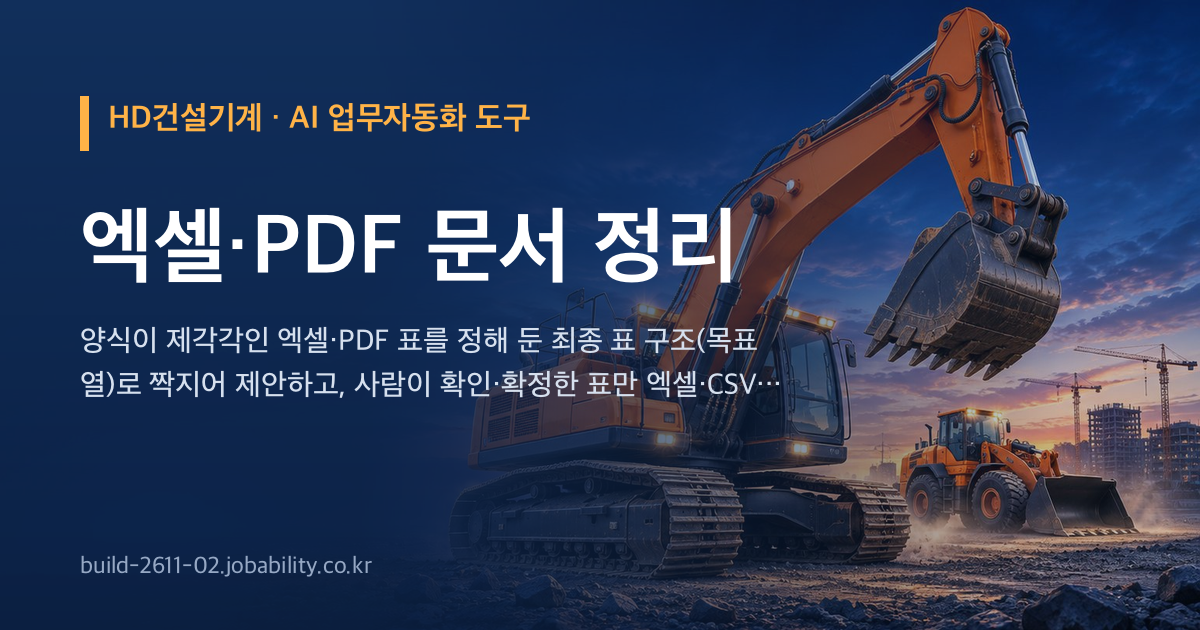
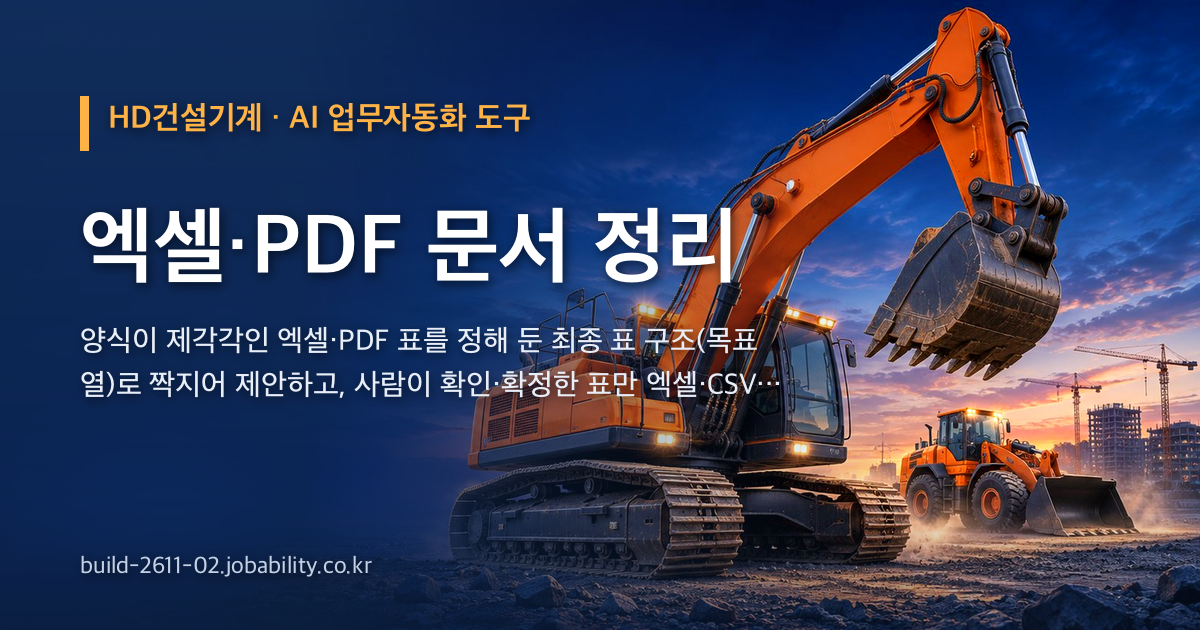
공유 그림 다시(사진 또렷하게) · 판 2026-11-13.12

diff --git a/index.html b/index.html
@@ -12,8 +12,8 @@
 <meta property="og:title" content="HD건설기계 · 엑셀·PDF 문서 정리">
 <meta property="og:description" content="양식이 제각각인 엑셀·PDF 표를 정해 둔 최종 표 구조(목표 열)로 짝지어 제안하고, 사람이 확인·확정한 표만 엑셀·CSV로 정리해 주는 도구입니다. v1.1부터는 폴더를 통째로 올리면 문서 종류별로 나누고 조건에 맞는 데이터만 뽑아 엑셀로 저장하며, 같은 규칙으로 Codex가 로컬">
 <meta property="og:url" content="https://build-2611-02.jobability.co.kr/">
-<meta property="og:image" content="https://build-2611-02.jobability.co.kr/og-image.png">
-<meta property="og:image:secure_url" content="https://build-2611-02.jobability.co.kr/og-image.png">
+<meta property="og:image" content="https://build-2611-02.jobability.co.kr/og-image.png?v=2">
+<meta property="og:image:secure_url" content="https://build-2611-02.jobability.co.kr/og-image.png?v=2">
 <meta property="og:image:type" content="image/png">
 <meta property="og:image:width" content="1200">
 <meta property="og:image:height" content="630">
@@ -22,7 +22,7 @@
 <meta name="twitter:card" content="summary_large_image">
 <meta name="twitter:title" content="HD건설기계 · 엑셀·PDF 문서 정리">
 <meta name="twitter:description" content="양식이 제각각인 엑셀·PDF 표를 정해 둔 최종 표 구조(목표 열)로 짝지어 제안하고, 사람이 확인·확정한 표만 엑셀·CSV로 정리해 주는 도구입니다. v1.1부터는 폴더를 통째로 올리면 문서 종류별로 나누고 조건에 맞는 데이터만 뽑아 엑셀로 저장하며, 같은 규칙으로 Codex가 로컬">
-<meta name="twitter:image" content="https://build-2611-02.jobability.co.kr/og-image.png">
+<meta name="twitter:image" content="https://build-2611-02.jobability.co.kr/og-image.png?v=2">
 <!-- /seo-kit -->
 <meta name="description" content="양식이 제각각인 엑셀·PDF 표를 정해 둔 최종 표 구조(목표 열)로 짝지어 제안하고, 사람이 확인·확정한 표만 엑셀·CSV로 정리해 주는 도구입니다. v1.1부터는 폴더를 통째로 올리면 문서 종류별로 나누고 조건에 맞는 데이터만 뽑아 엑셀로 저장하며, 같은 규칙으로 Codex가 로컬 스크립트를 돌릴 수 있습니다.">
 <link rel="icon" href="favicon.svg" type="image/svg+xml">
@@ -30,9 +30,9 @@
 <link rel="stylesheet" href="css/app.css">
 <!-- auth-kit: 로그인 전에는 도구 화면을 감춘다(js/auth.js 가 판정 뒤 푼다) -->
 <script>document.documentElement.classList.add('auth-lock')</script>
-<link rel="stylesheet" href="css/auth.css?v=2026-11-13.11">
-<link rel="stylesheet" href="css/board.css?v=2026-11-13.11">
-<link rel="stylesheet" href="css/kit-build.css?v=2026-11-13.11">
+<link rel="stylesheet" href="css/auth.css?v=2026-11-13.12">
+<link rel="stylesheet" href="css/board.css?v=2026-11-13.12">
+<link rel="stylesheet" href="css/kit-build.css?v=2026-11-13.12">
 <!-- /auth-kit -->
 </head>
 <body>
@@ -193,11 +193,11 @@
 <script src="js/engine.js"></script>
 <script src="js/app.js"></script>
 <!-- auth-kit: 로그인 · 사용 신청 · 승인 · 게시판(키트 정본 data10-00/kit/auth, 적용 build-2611-00/tools/kit) -->
-<script src="vendor/supabase.js?v=2026-11-13.11"></script>
-<script src="js/auth-config.js?v=2026-11-13.11"></script>
-<script src="js/kit-build.js?v=2026-11-13.11"></script>
-<script src="js/board.js?v=2026-11-13.11"></script>
-<script src="js/auth.js?v=2026-11-13.11"></script>
+<script src="vendor/supabase.js?v=2026-11-13.12"></script>
+<script src="js/auth-config.js?v=2026-11-13.12"></script>
+<script src="js/kit-build.js?v=2026-11-13.12"></script>
+<script src="js/board.js?v=2026-11-13.12"></script>
+<script src="js/auth.js?v=2026-11-13.12"></script>
 <!-- /auth-kit -->
 </body>
 </html>

diff --git a/folder.html b/folder.html
@@ -12,8 +12,8 @@
 <meta property="og:title" content="폴더 분류·추출 — 엑셀·PDF 문서 정리">
 <meta property="og:description" content="폴더를 통째로 올리면 안의 엑셀·PDF 를 규칙(파일 이름·머리글·본문 낱말)으로 문서 종류별로 나누고, 종류마다 정한 조건의 데이터를 뽑아 엑셀로 저장합니다. Codex 용 로컬 스크립트와 같은 규칙 파일을 씁니다.">
 <meta property="og:url" content="https://build-2611-02.jobability.co.kr/folder.html">
-<meta property="og:image" content="https://build-2611-02.jobability.co.kr/og-image.png">
-<meta property="og:image:secure_url" content="https://build-2611-02.jobability.co.kr/og-image.png">
+<meta property="og:image" content="https://build-2611-02.jobability.co.kr/og-image.png?v=2">
+<meta property="og:image:secure_url" content="https://build-2611-02.jobability.co.kr/og-image.png?v=2">
 <meta property="og:image:type" content="image/png">
 <meta property="og:image:width" content="1200">
 <meta property="og:image:height" content="630">
@@ -22,7 +22,7 @@
 <meta name="twitter:card" content="summary_large_image">
 <meta name="twitter:title" content="폴더 분류·추출 — 엑셀·PDF 문서 정리">
 <meta name="twitter:description" content="폴더를 통째로 올리면 안의 엑셀·PDF 를 규칙(파일 이름·머리글·본문 낱말)으로 문서 종류별로 나누고, 종류마다 정한 조건의 데이터를 뽑아 엑셀로 저장합니다. Codex 용 로컬 스크립트와 같은 규칙 파일을 씁니다.">
-<meta name="twitter:image" content="https://build-2611-02.jobability.co.kr/og-image.png">
+<meta name="twitter:image" content="https://build-2611-02.jobability.co.kr/og-image.png?v=2">
 <!-- /seo-kit -->
 <meta name="description" content="폴더를 통째로 올리면 안의 엑셀·PDF 를 규칙(파일 이름·머리글·본문 낱말)으로 문서 종류별로 나누고, 종류마다 정한 조건의 데이터를 뽑아 엑셀로 저장합니다. Codex 용 로컬 스크립트와 같은 규칙 파일을 씁니다.">
 <link rel="icon" href="favicon.svg" type="image/svg+xml">
@@ -30,9 +30,9 @@
 <link rel="stylesheet" href="css/app.css">
 <!-- auth-kit: 로그인 전에는 도구 화면을 감춘다(js/auth.js 가 판정 뒤 푼다) -->
 <script>document.documentElement.classList.add('auth-lock')</script>
-<link rel="stylesheet" href="css/auth.css?v=2026-11-13.11">
-<link rel="stylesheet" href="css/board.css?v=2026-11-13.11">
-<link rel="stylesheet" href="css/kit-build.css?v=2026-11-13.11">
+<link rel="stylesheet" href="css/auth.css?v=2026-11-13.12">
+<link rel="stylesheet" href="css/board.css?v=2026-11-13.12">
+<link rel="stylesheet" href="css/kit-build.css?v=2026-11-13.12">
 <!-- /auth-kit -->
 </head>
 <body>
@@ -137,11 +137,11 @@
 <script src="js/classify.js"></script>
 <script src="js/folder.js"></script>
 <!-- auth-kit: 로그인 · 사용 신청 · 승인 · 게시판(키트 정본 data10-00/kit/auth, 적용 build-2611-00/tools/kit) -->
-<script src="vendor/supabase.js?v=2026-11-13.11"></script>
-<script src="js/auth-config.js?v=2026-11-13.11"></script>
-<script src="js/kit-build.js?v=2026-11-13.11"></script>
-<script src="js/board.js?v=2026-11-13.11"></script>
-<script src="js/auth.js?v=2026-11-13.11"></script>
+<script src="vendor/supabase.js?v=2026-11-13.12"></script>
+<script src="js/auth-config.js?v=2026-11-13.12"></script>
+<script src="js/kit-build.js?v=2026-11-13.12"></script>
+<script src="js/board.js?v=2026-11-13.12"></script>
+<script src="js/auth.js?v=2026-11-13.12"></script>
 <!-- /auth-kit -->
 </body>
 </html>

diff --git a/guide.html b/guide.html
@@ -12,8 +12,8 @@
 <meta property="og:title" content="사용법 — 엑셀·PDF 문서 정리">
 <meta property="og:description" content="양식이 제각각인 엑셀·PDF 표를 정해 둔 최종 표 구조(목표 열)로 짝지어 제안하고, 사람이 확인·확정한 표만 엑셀·CSV로 정리해 주는 도구입니다. v1.1부터는 폴더를 통째로 올리면 문서 종류별로 나누고 조건에 맞는 데이터만 뽑아 엑셀로 저장하며, 같은 규칙으로 Codex가 로컬">
 <meta property="og:url" content="https://build-2611-02.jobability.co.kr/guide.html">
-<meta property="og:image" content="https://build-2611-02.jobability.co.kr/og-image.png">
-<meta property="og:image:secure_url" content="https://build-2611-02.jobability.co.kr/og-image.png">
+<meta property="og:image" content="https://build-2611-02.jobability.co.kr/og-image.png?v=2">
+<meta property="og:image:secure_url" content="https://build-2611-02.jobability.co.kr/og-image.png?v=2">
 <meta property="og:image:type" content="image/png">
 <meta property="og:image:width" content="1200">
 <meta property="og:image:height" content="630">
@@ -22,7 +22,7 @@
 <meta name="twitter:card" content="summary_large_image">
 <meta name="twitter:title" content="사용법 — 엑셀·PDF 문서 정리">
 <meta name="twitter:description" content="양식이 제각각인 엑셀·PDF 표를 정해 둔 최종 표 구조(목표 열)로 짝지어 제안하고, 사람이 확인·확정한 표만 엑셀·CSV로 정리해 주는 도구입니다. v1.1부터는 폴더를 통째로 올리면 문서 종류별로 나누고 조건에 맞는 데이터만 뽑아 엑셀로 저장하며, 같은 규칙으로 Codex가 로컬">
-<meta name="twitter:image" content="https://build-2611-02.jobability.co.kr/og-image.png">
+<meta name="twitter:image" content="https://build-2611-02.jobability.co.kr/og-image.png?v=2">
 <!-- /seo-kit -->
 <link rel="icon" href="favicon.svg" type="image/svg+xml">
 <link rel="stylesheet" href="css/style.css">

diff --git a/plan.html b/plan.html
@@ -12,8 +12,8 @@
 <meta property="og:title" content="기획서 — 엑셀·PDF 문서 정리">
 <meta property="og:description" content="양식이 제각각인 엑셀·PDF 표를 정해 둔 최종 표 구조(목표 열)로 짝지어 제안하고, 사람이 확인·확정한 표만 엑셀·CSV로 정리해 주는 도구입니다. v1.1부터는 폴더를 통째로 올리면 문서 종류별로 나누고 조건에 맞는 데이터만 뽑아 엑셀로 저장하며, 같은 규칙으로 Codex가 로컬">
 <meta property="og:url" content="https://build-2611-02.jobability.co.kr/plan.html">
-<meta property="og:image" content="https://build-2611-02.jobability.co.kr/og-image.png">
-<meta property="og:image:secure_url" content="https://build-2611-02.jobability.co.kr/og-image.png">
+<meta property="og:image" content="https://build-2611-02.jobability.co.kr/og-image.png?v=2">
+<meta property="og:image:secure_url" content="https://build-2611-02.jobability.co.kr/og-image.png?v=2">
 <meta property="og:image:type" content="image/png">
 <meta property="og:image:width" content="1200">
 <meta property="og:image:height" content="630">
@@ -22,7 +22,7 @@
 <meta name="twitter:card" content="summary_large_image">
 <meta name="twitter:title" content="기획서 — 엑셀·PDF 문서 정리">
 <meta name="twitter:description" content="양식이 제각각인 엑셀·PDF 표를 정해 둔 최종 표 구조(목표 열)로 짝지어 제안하고, 사람이 확인·확정한 표만 엑셀·CSV로 정리해 주는 도구입니다. v1.1부터는 폴더를 통째로 올리면 문서 종류별로 나누고 조건에 맞는 데이터만 뽑아 엑셀로 저장하며, 같은 규칙으로 Codex가 로컬">
-<meta name="twitter:image" content="https://build-2611-02.jobability.co.kr/og-image.png">
+<meta name="twitter:image" content="https://build-2611-02.jobability.co.kr/og-image.png?v=2">
 <!-- /seo-kit -->
 <link rel="icon" href="favicon.svg" type="image/svg+xml">
 <link rel="stylesheet" href="css/style.css">

diff --git a/report.html b/report.html
@@ -12,8 +12,8 @@
 <meta property="og:title" content="평가보고서 — 엑셀·PDF 문서 정리">
 <meta property="og:description" content="엑셀·PDF 문서 정리 점검 · 평가보고서(2026-11-13) — 사이트 점검, 기능과 시험, 인계 준비, 판 이력, 한계.">
 <meta property="og:url" content="https://build-2611-02.jobability.co.kr/report.html">
-<meta property="og:image" content="https://build-2611-02.jobability.co.kr/og-image.png">
-<meta property="og:image:secure_url" content="https://build-2611-02.jobability.co.kr/og-image.png">
+<meta property="og:image" content="https://build-2611-02.jobability.co.kr/og-image.png?v=2">
+<meta property="og:image:secure_url" content="https://build-2611-02.jobability.co.kr/og-image.png?v=2">
 <meta property="og:image:type" content="image/png">
 <meta property="og:image:width" content="1200">
 <meta property="og:image:height" content="630">
@@ -22,7 +22,7 @@
 <meta name="twitter:card" content="summary_large_image">
 <meta name="twitter:title" content="평가보고서 — 엑셀·PDF 문서 정리">
 <meta name="twitter:description" content="엑셀·PDF 문서 정리 점검 · 평가보고서(2026-11-13) — 사이트 점검, 기능과 시험, 인계 준비, 판 이력, 한계.">
-<meta name="twitter:image" content="https://build-2611-02.jobability.co.kr/og-image.png">
+<meta name="twitter:image" content="https://build-2611-02.jobability.co.kr/og-image.png?v=2">
 <!-- /seo-kit -->
 <meta name="description" content="엑셀·PDF 문서 정리 점검 · 평가보고서(2026-11-13) — 사이트 점검, 기능과 시험, 인계 준비, 판 이력, 한계.">
 <link rel="icon" href="favicon.svg" type="image/svg+xml">
